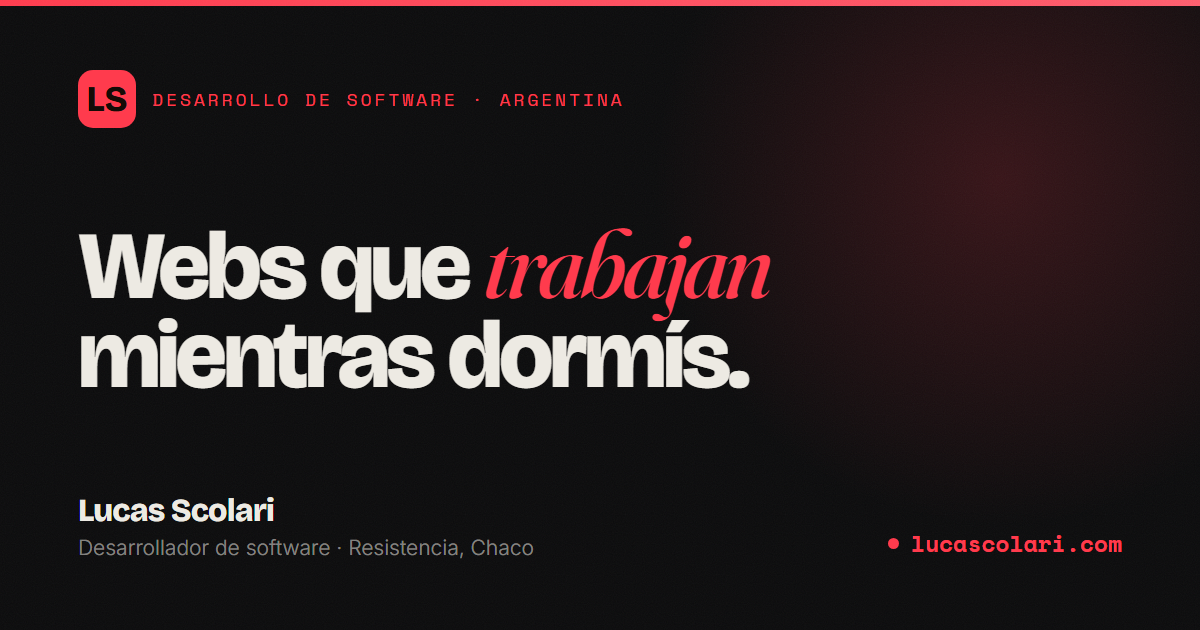
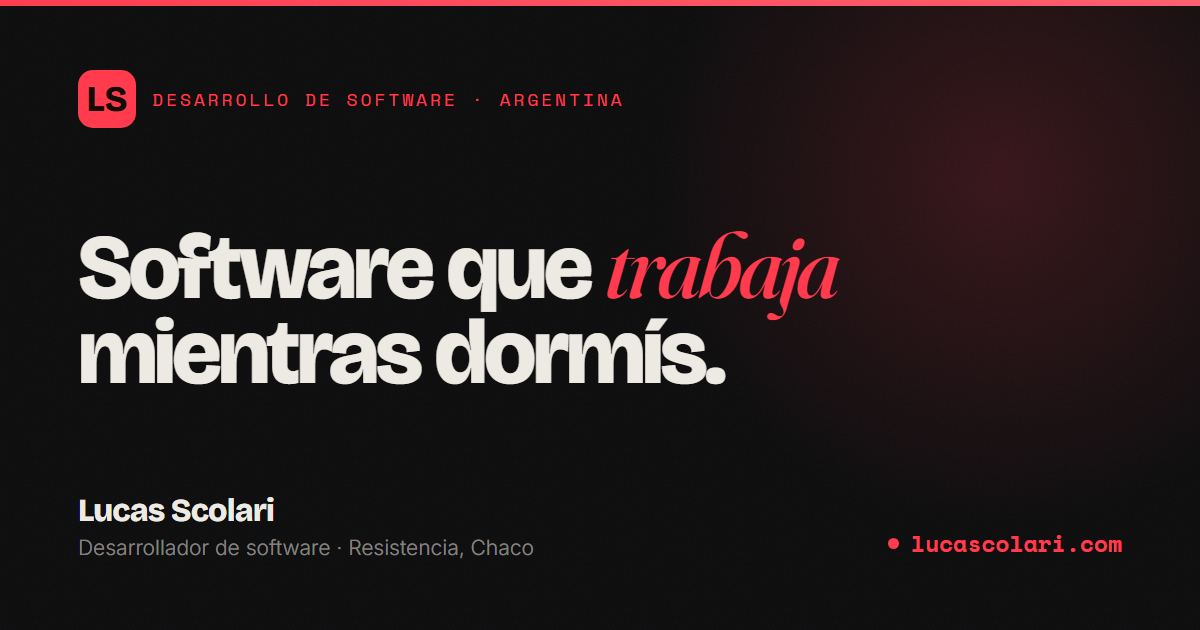
Reposicionamiento a desarrollador de software y nuevos servicios
- Foco en desarrollo de software (hero, bio, SEO, schema, slogan, og-image)
- Servicios ampliados a 6: se suman automatizaciones con IA, auditorias para negocios y software a medida e integraciones
- Marquee, llms.txt y datos estructurados actualizados

Changed region(s): [[0.0617, 0.3619, 0.7092, 0.6333]]

diff --git a/index.html b/index.html
@@ -5,23 +5,23 @@
 <meta name="viewport" content="width=device-width,initial-scale=1.0"/>
 <meta name="theme-color" content="#0B0B0C"/>
 <meta name="color-scheme" content="dark"/>
-<title>Lucas Scolari | Desarrollador Web Freelance Argentina | Sitios, Landing Pages y Tiendas Online</title>
-<meta name="description" content="Desarrollador web freelance en Resistencia, Chaco (Argentina). Creo sitios profesionales, landing pages y tiendas online a medida. Rápidos, modernos y con resultados reales. Desde $150 USD. Respuesta en menos de 24hs."/>
-<meta property="og:title" content="Lucas Scolari | Desarrollador Web Freelance Argentina"/>
-<meta property="og:description" content="Desarrollador web freelance en Argentina. Sitios profesionales, landing pages y tiendas online desde $150 USD. Resultados reales, sin plantillas genéricas."/>
+<title>Lucas Scolari | Desarrollador de Software en Argentina | Web, Automatización con IA y Auditorías</title>
+<meta name="description" content="Desarrollador de software en Resistencia, Chaco (Argentina). Creo sitios web, automatizaciones con IA, auditorías y software a medida para empresas y negocios. Rápido, profesional y con resultados reales. Respuesta en menos de 24hs."/>
+<meta property="og:title" content="Lucas Scolari | Desarrollador de Software en Argentina"/>
+<meta property="og:description" content="Desarrollador de software: sitios web, automatizaciones con IA, auditorías y software a medida para empresas y negocios. Resultados reales, sin plantillas."/>
 <meta property="og:type" content="website"/>
 <meta property="og:url" content="https://lucascolari.com"/>
 <meta property="og:image" content="https://lucascolari.com/og-image.png"/>
 <meta property="og:image:width" content="1200"/>
 <meta property="og:image:height" content="630"/>
-<meta property="og:image:alt" content="Lucas Scolari — Desarrollo web freelance. Webs que generan clientes."/>
+<meta property="og:image:alt" content="Lucas Scolari — Desarrollador de software. Software que trabaja por tu negocio."/>
 <meta property="og:locale" content="es_AR"/>
-<meta property="og:site_name" content="Lucas Scolari — Desarrollo Web"/>
+<meta property="og:site_name" content="Lucas Scolari — Desarrollo de Software"/>
 <meta name="twitter:card" content="summary_large_image"/>
 <meta name="twitter:site" content="@scolarilucas"/>
 <meta name="twitter:creator" content="@scolarilucas"/>
-<meta name="twitter:title" content="Lucas Scolari | Desarrollador Web Freelance Argentina"/>
-<meta name="twitter:description" content="Sitios web profesionales desde $150 USD. Landing pages, tiendas online y más. Resultados reales, entrega garantizada."/>
+<meta name="twitter:title" content="Lucas Scolari | Desarrollador de Software en Argentina"/>
+<meta name="twitter:description" content="Desarrollador de software: sitios web, automatizaciones con IA, auditorías y software a medida para empresas y negocios. Resultados reales."/>
 <meta name="twitter:image" content="https://lucascolari.com/og-image.png"/>
 <meta name="keywords" content="desarrollador web Argentina, desarrollador web freelance, diseño web profesional, landing page Argentina, tienda online Argentina, crear página web, desarrollo web a medida, sitio web para empresas, e-commerce Argentina, web para emprendedores, desarrollador web Resistencia, desarrollador web Chaco, desarrollador web Corrientes, web developer Argentina, freelance web developer, página web barata Argentina, cuánto cuesta una web, Lucas Scolari"/>
 <meta name="author" content="Lucas Scolari"/>
@@ -74,7 +74,7 @@
         "https://www.instagram.com/scolarilucas/"
       ],
       "description": "Desarrollador web freelance argentino. Especializado en sitios web profesionales, landing pages y tiendas online para emprendedores y empresas de Argentina y el mundo.",
-      "knowsAbout": ["Desarrollo Web", "HTML", "CSS", "JavaScript", "React", "Node.js", "WordPress", "SEO", "Figma", "E-commerce", "UX/UI", "Landing Pages"],
+      "knowsAbout": ["Desarrollo de Software", "Desarrollo Web", "Inteligencia Artificial", "Automatización", "Auditoría Web", "HTML", "CSS", "JavaScript", "React", "Node.js", "SEO", "E-commerce", "UX/UI", "Landing Pages", "APIs"],
       "hasOccupation": {
         "@type": "Occupation",
         "name": "Desarrollador Web",
@@ -95,8 +95,8 @@
         "@type": "ImageObject",
         "url": "https://lucascolari.com/foto-perfil.jpeg"
       },
-      "description": "Desarrollo web profesional a medida para emprendedores y empresas de Argentina. Sitios web, landing pages y tiendas online con diseño moderno, rápidos, optimizados para SEO y 100% responsive.",
-      "slogan": "Webs que trabajan mientras dormís",
+      "description": "Desarrollo de software a medida para emprendedores y empresas de Argentina: sitios web, automatizaciones con IA, auditorías y software interno. Rápido, optimizado para SEO y 100% responsive.",
+      "slogan": "Software que trabaja mientras dormís",
       "priceRange": "$$",
       "currenciesAccepted": "ARS, USD",
       "paymentAccepted": "Transferencia bancaria, Mercado Pago, Efectivo, USDT",
@@ -115,7 +115,7 @@
         "@type": "Country",
         "name": "Argentina"
       },
-      "serviceType": ["Diseño Web", "Desarrollo Web", "Landing Pages", "Tiendas Online", "SEO", "E-commerce", "Sitios Web Corporativos"],
+      "serviceType": ["Desarrollo de Software", "Desarrollo Web", "Automatización con IA", "Auditoría Web", "Software a Medida", "Landing Pages", "Tiendas Online", "SEO", "E-commerce"],
       "openingHoursSpecification": {
         "@type": "OpeningHoursSpecification",
         "dayOfWeek": ["Monday","Tuesday","Wednesday","Thursday","Friday"],
@@ -641,8 +641,8 @@ footer{border-top:1px solid var(--line);padding:56px 0 40px}
   <div class="hero-in">
     <div class="hero-c">
       <div class="eyebrow">(01) — Desarrollo de software · Argentina</div>
-      <h1><span class="sr-only">Webs que trabajan mientras dormís — desarrollo web profesional en Resistencia, Chaco, Argentina</span><span aria-hidden="true">Webs que <em>trabajan</em> mientras dormís.</span></h1>
-      <p class="hero-sub">Diseño y desarrollo a medida para que tu sitio sea tu mejor vendedor: rápido, memorable y pensado para convertir. Sin plantillas, sin atajos.</p>
+      <h1><span class="sr-only">Software que trabaja mientras dormís — desarrollo de software, sitios web, automatización con IA y auditorías en Resistencia, Chaco, Argentina</span><span aria-hidden="true">Software que <em>trabaja</em> mientras dormís.</span></h1>
+      <p class="hero-sub">Diseño y construyo software a medida — sitios web, automatizaciones con IA y auditorías — para que tu negocio venda más, ahorre tiempo y crezca. Sin plantillas, sin atajos.</p>
       <div class="hero-act">
         <a href="/brief.html" class="btn btn-p">Empezá tu proyecto →</a>
         <a href="#portfolio" class="btn btn-g">Ver trabajos</a>
@@ -651,7 +651,7 @@ footer{border-top:1px solid var(--line);padding:56px 0 40px}
     <div class="hero-idx" aria-hidden="true">SCROLL ↓ / 01—09</div>
   </div>
   <div class="marq" aria-hidden="true">
-    <div class="marq-t">Sitios web<b>◆</b>Landing pages<b>◆</b>Tiendas online<b>◆</b>Identidad digital<b>◆</b>SEO<b>◆</b>Experiencias 3D<b>◆</b>Sitios web<b>◆</b>Landing pages<b>◆</b>Tiendas online<b>◆</b>Identidad digital<b>◆</b>SEO<b>◆</b>Experiencias 3D<b>◆</b></div>
+    <div class="marq-t">Sitios web<b>◆</b>Automatización con IA<b>◆</b>Auditorías<b>◆</b>Tiendas online<b>◆</b>Software a medida<b>◆</b>Experiencias 3D<b>◆</b>Sitios web<b>◆</b>Automatización con IA<b>◆</b>Auditorías<b>◆</b>Tiendas online<b>◆</b>Software a medida<b>◆</b>Experiencias 3D<b>◆</b></div>
   </div>
 </section>
 
@@ -665,8 +665,8 @@ footer{border-top:1px solid var(--line);padding:56px 0 40px}
         <span class="tag">Resistencia, Chaco · AR</span>
       </div>
       <div class="about-body reveal">
-        <p>Soy <strong>Lucas Scolari</strong>, desarrollador de software de Resistencia, Chaco. Construyo productos digitales y sitios web que no solo se ven bien, sino que <strong>trabajan activamente para el negocio de mis clientes</strong>.</p>
-        <p>Empecé a programar por curiosidad y hoy lo hago por convicción: cada emprendedor o PyME merece una presencia digital a la altura de lo que ofrece. <strong>Sin plantillas genéricas, sin atajos.</strong></p>
+        <p>Soy <strong>Lucas Scolari</strong>, desarrollador de software de Resistencia, Chaco. Construyo soluciones digitales a medida —sitios web, automatizaciones con IA, auditorías y software para empresas— que <strong>trabajan activamente para el negocio de mis clientes</strong>.</p>
+        <p>Empecé a programar por curiosidad y hoy lo hago por convicción: cada emprendedor, PyME o empresa merece herramientas digitales a la altura de lo que ofrece. <strong>Sin plantillas genéricas, sin atajos.</strong></p>
         <p>Trabajo de forma directa con vos en cada etapa. Cuando me contactás, yo soy quien diseña, desarrolla y entrega.</p>
         <div class="about-hl">
           <div class="hl"><div class="n">01</div><h4>Chaco, Argentina</h4><p>Trabajo con clientes de todo el país y el exterior.</p></div>
@@ -679,41 +679,59 @@ footer{border-top:1px solid var(--line);padding:56px 0 40px}
   </div>
 </section>
 
-<section class="sec" id="servicios" aria-label="Servicios de desarrollo web">
+<section class="sec" id="servicios" aria-label="Servicios de desarrollo de software">
   <div class="container">
     <div class="sec-label reveal">(03) — Servicios</div>
     <h2 class="sec-title reveal">Lo que hago<br>por tu <em>negocio</em>.</h2>
-    <p class="sec-intro reveal">Soluciones a medida, pensadas para convertir visitas en clientes. Cotización personalizada según tu proyecto.</p>
+    <p class="sec-intro reveal">Del sitio web al software interno: soluciones a medida para vender más, ahorrar tiempo y crecer. Cotización personalizada según tu proyecto.</p>
     <div class="svc reveal">
       <div class="svc-row" onclick="location.href='/brief.html'">
         <div class="svc-n">01</div>
         <div class="svc-main">
-          <h3>Sitio web completo</h3>
-          <p>La solución más completa: diseño a medida con múltiples secciones, SEO, formulario de contacto y WhatsApp integrado. Sin plantillas, sin código copiado.</p>
-          <div class="svc-tags"><span>Diseño a medida</span><span>SEO</span><span>Formularios</span><span>CMS</span></div>
+          <h3>Sitios web y landing pages</h3>
+          <p>Sitios profesionales y landing pages a medida, rápidos y mobile-first, optimizados para Google y pensados para convertir visitantes en clientes.</p>
+          <div class="svc-tags"><span>Diseño a medida</span><span>SEO</span><span>Alta conversión</span></div>
         </div>
         <span class="svc-cta">Consultar <span class="ar">→</span></span>
       </div>
       <div class="svc-row" onclick="location.href='/brief.html'">
         <div class="svc-n">02</div>
         <div class="svc-main">
-          <h3>Landing page</h3>
-          <p>Página de aterrizaje profesional para convertir visitantes en clientes. Rápida, mobile-first, optimizada para Google y con llamados a la acción efectivos.</p>
-          <div class="svc-tags"><span>Mobile-first</span><span>Alta conversión</span><span>Rápida</span></div>
-        </div>
-        <span class="svc-cta">Consultar <span class="ar">→</span></span>
-      </div>
-      <div class="svc-row" onclick="location.href='/brief.html'">
-        <div class="svc-n">03</div>
-        <div class="svc-main">
-          <h3>Tienda online</h3>
+          <h3>Tiendas online</h3>
           <p>E-commerce con catálogo, carrito de compras y Mercado Pago integrado. Tu tienda lista para vender desde el día uno.</p>
           <div class="svc-tags"><span>Mercado Pago</span><span>Catálogo</span><span>Panel admin</span></div>
         </div>
         <span class="svc-cta">Consultar <span class="ar">→</span></span>
       </div>
       <div class="svc-row" onclick="location.href='/brief.html'">
+        <div class="svc-n">03</div>
+        <div class="svc-main">
+          <h3>Automatizaciones con IA</h3>
+          <p>Asistentes, chatbots e integraciones con inteligencia artificial que responden consultas, captan clientes y automatizan tareas repetitivas — para que tu equipo se enfoque en lo importante.</p>
+          <div class="svc-tags"><span>Asistentes IA</span><span>Chatbots</span><span>Integraciones</span></div>
+        </div>
+        <span class="svc-cta">Consultar <span class="ar">→</span></span>
+      </div>
+      <div class="svc-row" onclick="location.href='/brief.html'">
         <div class="svc-n">04</div>
+        <div class="svc-main">
+          <h3>Auditorías para negocios</h3>
+          <p>Análisis profesional de tu web o software actual: velocidad, seguridad, SEO, experiencia de usuario y conversión. Te entrego un informe con mejoras concretas y priorizadas.</p>
+          <div class="svc-tags"><span>Rendimiento</span><span>Seguridad</span><span>SEO</span><span>Conversión</span></div>
+        </div>
+        <span class="svc-cta">Consultar <span class="ar">→</span></span>
+      </div>
+      <div class="svc-row" onclick="location.href='/brief.html'">
+        <div class="svc-n">05</div>
+        <div class="svc-main">
+          <h3>Software a medida e integraciones</h3>
+          <p>Aplicaciones y herramientas internas para tu empresa: paneles de gestión, sistemas de reservas o turnos, e integraciones entre las plataformas que ya usás.</p>
+          <div class="svc-tags"><span>Paneles</span><span>Sistemas a medida</span><span>APIs</span></div>
+        </div>
+        <span class="svc-cta">Consultar <span class="ar">→</span></span>
+      </div>
+      <div class="svc-row" onclick="location.href='/brief.html'">
+        <div class="svc-n">06</div>
         <div class="svc-main">
           <h3>Experiencias 3D e interactivas</h3>
           <p>Sitios con animaciones y 3D en tiempo real para marcas que quieren destacarse y dejar una impresión imposible de olvidar.</p>
